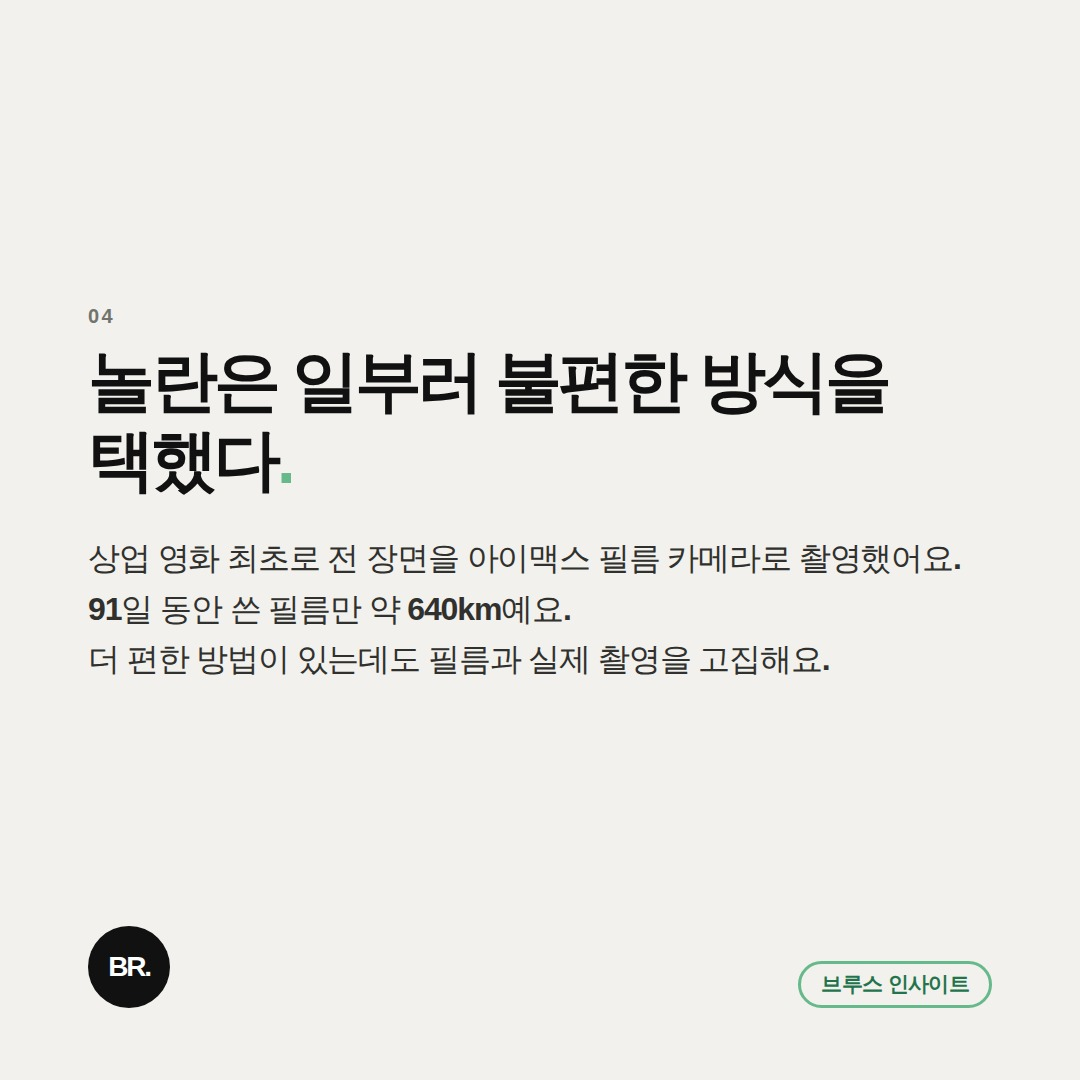
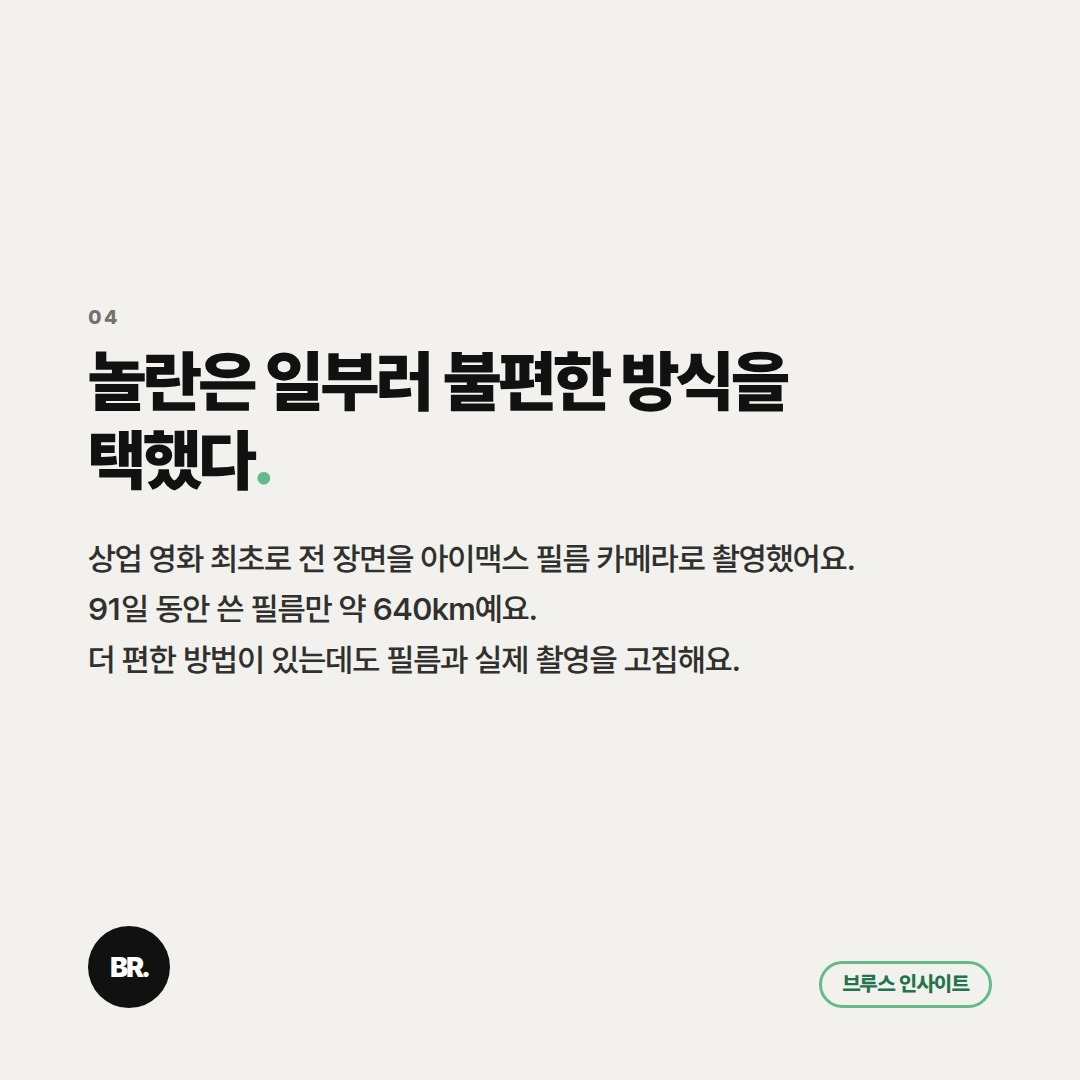
content: re-render Brunch 213 cards in Pretendard
Claude-Session: https://claude.ai/code/session_01WiBXoCt32ssmTaZodMJSoM

diff --git a/content/213/preview.html b/content/213/preview.html
@@ -2,7 +2,8 @@
 <html lang="ko"><head><meta charset="utf-8"><meta name="viewport" content="width=device-width,initial-scale=1">
 <title>사람들은 왜 불편을 살까? — 브루스 인사이트</title>
 <style>
-*{box-sizing:border-box}html,body{margin:0;background:#d8d8d5;color:#111;font-family:"Noto Sans KR","Pretendard","Apple SD Gothic Neo","Malgun Gothic",sans-serif}.pages{display:grid;grid-template-columns:repeat(auto-fit,minmax(360px,540px));gap:28px;padding:28px;justify-content:center}.card{--accent:#65B98A;position:relative;width:1080px;height:1080px;overflow:hidden;background:#F2F1ED;transform-origin:top left}.card-image{position:absolute;inset:0;overflow:hidden;background:#d9d9d4}.card-image img{width:100%;height:100%;object-fit:cover;display:block}.image-wash{position:absolute;inset:0;background:linear-gradient(110deg,rgba(244,243,238,.1),rgba(0,0,0,.05))}.brand-pill{position:absolute;border:3px solid var(--accent);border-radius:999px;padding:9px 20px 11px;color:#23744c;font-size:21px;font-weight:800;letter-spacing:-.03em;line-height:1}.br-mark{position:absolute;width:82px;height:82px;border-radius:50%;display:flex;align-items:center;justify-content:center;background:#111;color:#fff;font-size:28px;font-weight:900;letter-spacing:-.08em}.accent-dot{color:var(--accent)}.cover-panel{position:absolute;inset:0;display:flex;flex-direction:column;padding:72px}.card--cover.has-image .cover-panel{width:58%;background:linear-gradient(90deg,rgba(246,245,240,.99) 0%,rgba(246,245,240,.97) 72%,rgba(246,245,240,0) 100%);padding-right:108px}.card--cover.has-image .card-image{left:45%}.cover-copy{margin:auto 0 170px;max-width:770px}.cover-title{margin:0;font-size:76px;line-height:1.13;letter-spacing:-.065em;font-weight:900;word-break:keep-all}.cover-title--sm{font-size:66px}.cover-title--xs{font-size:58px}.cover-subtitle{margin:30px 0 0;max-width:760px;font-size:30px;line-height:1.5;letter-spacing:-.035em;font-weight:600;color:#353535;word-break:keep-all}.cover-panel .brand-pill{left:72px;top:72px}.cover-panel .br-mark{left:72px;bottom:72px}.card--body .card-image{height:52%}.body-panel{position:absolute;left:0;right:0;bottom:0;height:48%;padding:52px 68px 58px;background:#F2F1ED}.body-copy{max-width:900px}.card-number{margin-bottom:13px;color:#73736e;font-size:20px;font-weight:800;letter-spacing:.12em}.body-title{margin:0;font-size:53px;line-height:1.15;letter-spacing:-.06em;font-weight:900;word-break:keep-all}.body-title--sm{font-size:47px}.body-title--xs{font-size:42px}.body-text{margin:22px 0 0;max-width:900px;font-size:28px;line-height:1.52;letter-spacing:-.035em;font-weight:550;color:#30302e;word-break:keep-all}.body-panel .brand-pill{right:68px;bottom:58px}.body-panel .br-mark{left:68px;bottom:58px}.card--body.text-only .body-panel{inset:0;height:100%;padding:88px;display:flex;align-items:center}.card--body.text-only .body-copy{max-width:890px;margin-bottom:90px}.card--body.text-only .body-title{font-size:67px;line-height:1.18}.card--body.text-only .body-title--sm{font-size:60px}.card--body.text-only .body-title--xs{font-size:53px}.card--body.text-only .body-text{font-size:32px;line-height:1.58;margin-top:34px}.card--body.text-only .body-panel .brand-pill{right:88px;bottom:72px}.card--body.text-only .body-panel .br-mark{left:88px;bottom:72px}@media(max-width:700px){.pages{display:block;padding:12px}.card{transform:scale(calc((100vw - 24px)/1080));margin-bottom:calc((100vw - 24px) - 1080px)}}
+@font-face{font-family:"Pretendard Variable";src:url("https://cdn.jsdelivr.net/npm/pretendard@1.3.9/dist/web/variable/woff2/PretendardVariable.woff2") format("woff2-variations");font-weight:45 920;font-style:normal;font-display:block}
+*{box-sizing:border-box}html,body{margin:0;background:#d8d8d5;color:#111;font-family:"Pretendard Variable",sans-serif}.pages{display:grid;grid-template-columns:repeat(auto-fit,minmax(360px,540px));gap:28px;padding:28px;justify-content:center}.card{--accent:#65B98A;position:relative;width:1080px;height:1080px;overflow:hidden;background:#F2F1ED;transform-origin:top left}.card-image{position:absolute;inset:0;overflow:hidden;background:#d9d9d4}.card-image img{width:100%;height:100%;object-fit:cover;display:block}.image-wash{position:absolute;inset:0;background:linear-gradient(110deg,rgba(244,243,238,.1),rgba(0,0,0,.05))}.brand-pill{position:absolute;border:3px solid var(--accent);border-radius:999px;padding:9px 20px 11px;color:#23744c;font-size:21px;font-weight:800;letter-spacing:-.03em;line-height:1}.br-mark{position:absolute;width:82px;height:82px;border-radius:50%;display:flex;align-items:center;justify-content:center;background:#111;color:#fff;font-size:28px;font-weight:900;letter-spacing:-.08em}.accent-dot{color:var(--accent)}.cover-panel{position:absolute;inset:0;display:flex;flex-direction:column;padding:72px}.card--cover.has-image .cover-panel{width:58%;background:linear-gradient(90deg,rgba(246,245,240,.99) 0%,rgba(246,245,240,.97) 72%,rgba(246,245,240,0) 100%);padding-right:108px}.card--cover.has-image .card-image{left:45%}.cover-copy{margin:auto 0 170px;max-width:770px}.cover-title{margin:0;font-size:76px;line-height:1.13;letter-spacing:-.045em;font-weight:900;word-break:keep-all}.cover-title--sm{font-size:66px}.cover-title--xs{font-size:58px}.cover-subtitle{margin:30px 0 0;max-width:760px;font-size:30px;line-height:1.5;letter-spacing:-.02em;font-weight:600;color:#353535;word-break:keep-all}.cover-panel .brand-pill{left:72px;top:72px}.cover-panel .br-mark{left:72px;bottom:72px}.card--body .card-image{height:52%}.body-panel{position:absolute;left:0;right:0;bottom:0;height:48%;padding:52px 68px 58px;background:#F2F1ED}.body-copy{max-width:900px}.card-number{margin-bottom:13px;color:#73736e;font-size:20px;font-weight:800;letter-spacing:.12em}.body-title{margin:0;font-size:53px;line-height:1.15;letter-spacing:-.04em;font-weight:900;word-break:keep-all}.body-title--sm{font-size:47px}.body-title--xs{font-size:42px}.body-text{margin:22px 0 0;max-width:900px;font-size:28px;line-height:1.52;letter-spacing:-.02em;font-weight:550;color:#30302e;word-break:keep-all}.body-panel .brand-pill{right:68px;bottom:58px}.body-panel .br-mark{left:68px;bottom:58px}.card--body.text-only .body-panel{inset:0;height:100%;padding:88px;display:flex;align-items:center}.card--body.text-only .body-copy{max-width:890px;margin-bottom:90px}.card--body.text-only .body-title{font-size:67px;line-height:1.18}.card--body.text-only .body-title--sm{font-size:60px}.card--body.text-only .body-title--xs{font-size:53px}.card--body.text-only .body-text{font-size:32px;line-height:1.58;margin-top:34px}.card--body.text-only .body-panel .brand-pill{right:88px;bottom:72px}.card--body.text-only .body-panel .br-mark{left:88px;bottom:72px}@media(max-width:700px){.pages{display:block;padding:12px}.card{transform:scale(calc((100vw - 24px)/1080));margin-bottom:calc((100vw - 24px) - 1080px)}}
 </style></head><body><main class="pages"><section class="card card--cover text-only" data-card-index="0" data-document-role="page" data-label="1. 사람들은 왜 돈을 내고 불편을 살까?">
       
       <div class="cover-panel">
